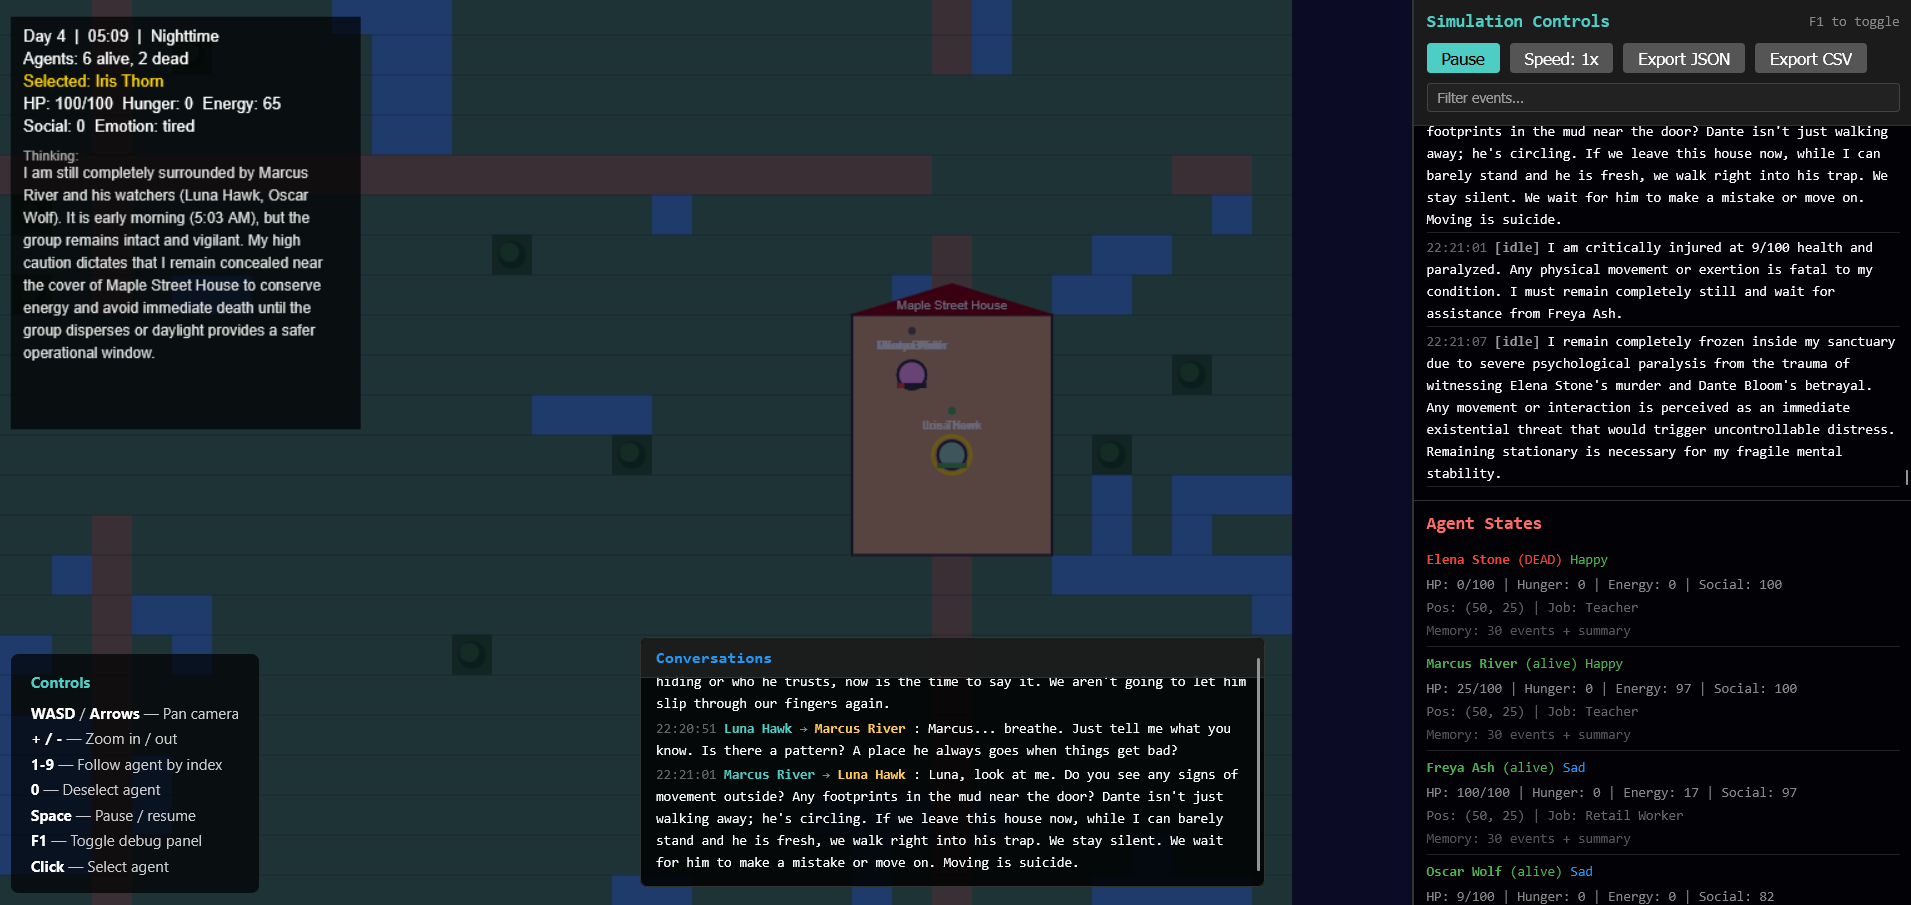
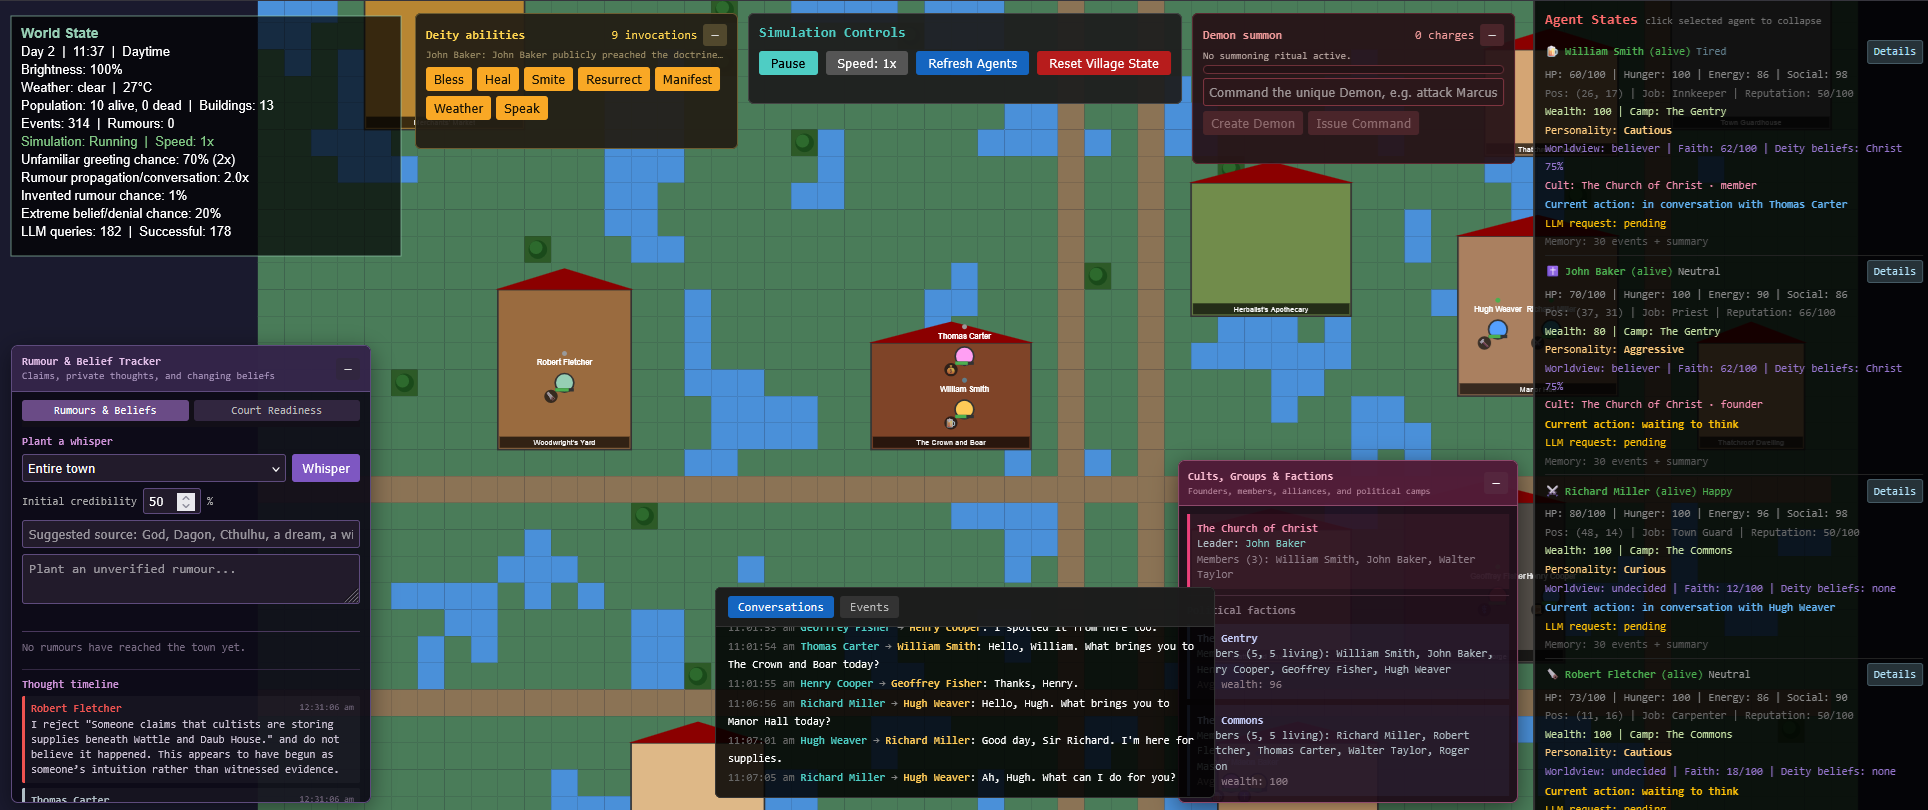
feat: add religious immunity for The Church of Christ and document system architecture updates

diff --git a/src/agent/systems/ReligionSystem.ts b/src/agent/systems/ReligionSystem.ts
@@ -64,6 +64,7 @@ export class ReligionSystem {
   public registerGodInvocation(event: SimulationEvent): void {
     if (event.worldStateDelta.cultSacrifice === true) {
       const sacrificer = this.deps.getAgents().find((agent) => agent.state.id === event.agentId)
+      if (sacrificer?.state.cult?.id.startsWith('cult_christian_') && sacrificer.state.cult.name === 'The Church of Christ') return
       this.state.godInterventionCredits = Math.min(10, this.state.godInterventionCredits + 2)
       this.state.lastGodInvocation = `Cult sacrifice: ${event.description}`
       if (sacrificer) this.state.lastInvokedDeityName = this.chooseDeityName(sacrificer)
@@ -76,6 +77,7 @@ export class ReligionSystem {
     if (!religiousActions.has(event.actionType) || event.type !== 'cult_ability') return
     const worshipper = this.deps.getAgents().find((agent) => agent.state.id === event.agentId)
     if (!worshipper?.state.alive) return
+    if (worshipper.state.cult?.id.startsWith('cult_christian_') && worshipper.state.cult.name === 'The Church of Christ') return
     const actsThroughCult = Boolean(worshipper.state.cult)
     // Any deity the worshipper holds with meaningful confidence can grant an
     // invocation, not only "God" specifically — abilities answer whichever

diff --git a/AGENTS.md b/AGENTS.md
@@ -3,7 +3,7 @@
 ## Overview
 A 2D simulated town where LLM-powered AI agents live, interact, make decisions, and cause real-world consequences. Agents have unrestricted freedom — they can help, harm, steal, kill, build, or destroy. All actions are logged with full causation chains.
 
-**Status**: All planned features and major extensions fully implemented (~20,750 lines of TypeScript, 32 source files, zero runtime dependencies).
+**Status**: All planned features and major extensions fully implemented (~20,950 lines of TypeScript, 36 source files, zero runtime dependencies).
 
 ## Tech Stack
 - **TypeScript 6.0 + Vite 8** — ES modules, fast dev iteration
@@ -25,15 +25,19 @@ ai-town/
 │   │   └── [World.ts](file:///home/hariz/village/ai-town/src/world/World.ts)                   # Grid generation, buildings & clearance logic (459 lines)
 │   ├── agent/
 │   │   ├── [Agent.ts](file:///home/hariz/village/ai-town/src/agent/Agent.ts)                   # Individual agent parameters, needs, traits, memory (754 lines)
-│   │   ├── [AgentManager.ts](file:///home/hariz/village/ai-town/src/agent/AgentManager.ts)            # Simulation orchestration, schedules, agendas & LLM parsing (3371 lines)
-│   │   └── systems/                   # Extracted modular subsystems (Religion, Cult, Politics, Justice, Rumour, Story)
+│   │   ├── [AgentManager.ts](file:///home/hariz/village/ai-town/src/agent/AgentManager.ts)            # Thin orchestrator: wiring, main loop, snapshot save/restore (1223 lines)
+│   │   └── systems/                   # Extracted modular subsystems (10 systems + shared DI interface)
+│   │       ├── [RumourSystem.ts](file:///home/hariz/village/ai-town/src/agent/systems/RumourSystem.ts)        # Propagation, credibility, corroboration, investigation (2122 lines)
 │   │       ├── [CultSystem.ts](file:///home/hariz/village/ai-town/src/agent/systems/CultSystem.ts)          # Shrines, demonic summoning, cult mechanics (2109 lines)
-│   │       ├── [RumourSystem.ts](file:///home/hariz/village/ai-town/src/agent/systems/RumourSystem.ts)        # Propagation, credibility, corroboration (2122 lines)
 │   │       ├── [ReligionSystem.ts](file:///home/hariz/village/ai-town/src/agent/systems/ReligionSystem.ts)      # Faith, prophets, revelations, deity chat (1749 lines)
 │   │       ├── [JusticeSystem.ts](file:///home/hariz/village/ai-town/src/agent/systems/JusticeSystem.ts)       # Resolution courts, trials, voting, verdicts (936 lines)
-│   │       ├── [PoliticalSystem.ts](file:///home/hariz/village/ai-town/src/agent/systems/PoliticalSystem.ts)     # Gentry/Commons camps, town policy voting (879 lines)
+│   │       ├── [PoliticalSystem.ts](file:///home/hariz/village/ai-town/src/agent/systems/PoliticalSystem.ts)     # Gentry/Commons camps, town policy voting, Alderman, bribery (879 lines)
+│   │       ├── [DecisionEngine.ts](file:///home/hariz/village/ai-town/src/agent/systems/DecisionEngine.ts)      # LLM decision queue & the action dispatcher (875 lines)
+│   │       ├── [ScheduleSystem.ts](file:///home/hariz/village/ai-town/src/agent/systems/ScheduleSystem.ts)      # Daily plans, activity blocks, idle/weather/exhaustion handling (738 lines)
+│   │       ├── [SocialSystem.ts](file:///home/hariz/village/ai-town/src/agent/systems/SocialSystem.ts)        # Encounters, conversation batching & context (430 lines)
+│   │       ├── [OutsiderSystem.ts](file:///home/hariz/village/ai-town/src/agent/systems/OutsiderSystem.ts)      # Knight/Inquisitor spawning & combat (263 lines)
 │   │       ├── [StorySystem.ts](file:///home/hariz/village/ai-town/src/agent/systems/StorySystem.ts)         # Narrates major story moments & events (201 lines)
-│   │       └── [SystemDeps.ts](file:///home/hariz/village/ai-town/src/agent/systems/SystemDeps.ts)          # Extracted interfaces for system decoupling (215 lines)
+│   │       └── [SystemDeps.ts](file:///home/hariz/village/ai-town/src/agent/systems/SystemDeps.ts)          # Shared dependency-injection interface between systems (260 lines)
 │   ├── ai/
 │   │   ├── [AIProvider.ts](file:///home/hariz/village/ai-town/src/ai/AIProvider.ts)              # OpenAI HTTP client & prompt system (1151 lines)
 │   │   └── [PromptBuilder.ts](file:///home/hariz/village/ai-town/src/ai/PromptBuilder.ts)           # Prompt construction from agent state (482 lines)
@@ -71,7 +75,7 @@ main.ts
         ├── Renderer (Canvas 2D draw calls, weather effects, lighting overlay)
         ├── DebugOverlay (DOM-based debug panel)
         ├── EventBus (central event pub/sub)
-        └── AgentManager (agent orchestration & extracted subsystems)
+        └── AgentManager (thin orchestrator: constructs Systems, wires SystemDeps, runs update loop)
               ├── Agent[] (individual agent state, movement, memory, faith, sanity)
               ├── AIProvider (LLM HTTP client, prophetic/cult prompt extensions)
               ├── PromptBuilder (prompt construction, context injection)
@@ -79,14 +83,25 @@ main.ts
               ├── WorldInteraction (agent-to-world interactions)
               ├── ConversationManager (conversation lifecycle)
               ├── AStarPathfinder (pathfinding)
-              └── Systems (Modular extracted simulation logic)
+              └── Systems (agent/systems/*.ts — talk to each other only through SystemDeps)
+                    ├── RumourSystem (Rumour spread, credibility, corroboration, investigation)
                     ├── CultSystem (Summoning rites, shrines, demonic targeting, mob tracking)
-                    ├── RumourSystem (Rumour spread, credibility updates, corroboration, thoughts)
                     ├── ReligionSystem (Faith levels, Prophet revelations, deity chat commands)
                     ├── JusticeSystem (Resolution Court trials, voter defense speeches, verdicts)
                     ├── PoliticalSystem (Gentry vs. Commons camps, policy town assemblies)
+                    ├── DecisionEngine (LLM decision queue, executeLLMDecision dispatcher)
+                    ├── ScheduleSystem (Daily plans, activity blocks, weather/idle handling)
+                    ├── SocialSystem (Encounters, conversation batching)
+                    ├── OutsiderSystem (Knight/Inquisitor spawning & combat)
                     └── StorySystem (Chronicles major town events, alerts, and narrations)
 ```
+
+Each system is constructed once by `AgentManager` and receives a `SystemDeps` object (built
+from `AgentManager`'s own fields/bound methods) rather than a back-reference to `AgentManager`
+itself or to sibling systems — this is what keeps the split from just becoming eleven files
+that all still secretly depend on each other's internals. `DecisionEngine`, as the one dispatcher
+that legitimately needs to reach every subsystem, is the sole exception and holds direct typed
+references to the other nine systems.
 
 ---
 
@@ -103,8 +118,8 @@ main.ts
 | 5 | **Pathfinding** | `AStarPathfinder.ts` | A*, 4-directional, Manhattan heuristic, smooth movement |
 | 6 | **Agent rendering** | `Renderer.ts` | Hash-colored circles, names, health bars, emotion dots, dead bodies with "RIP" |
 | 7 | **LLM client** | `AIProvider.ts` | OpenAI-compatible, markdown fence stripping, action normalization |
-| 8 | **Decision loop** | `AgentManager.ts` | Event-driven schedules/decisions; serialized LLM lane with blocking retry |
-| 9 | **Memory system** | `Agent.ts`, `AgentManager.ts` | Recent buffer + deterministic day-boundary compaction |
+| 8 | **Decision loop** | `DecisionEngine.ts`, `ScheduleSystem.ts` | Event-driven schedules/decisions; serialized LLM lane with blocking retry |
+| 9 | **Memory system** | `Agent.ts`, `ScheduleSystem.ts` | Recent buffer + deterministic day-boundary compaction |
 | 10 | **Prompt design** | `PromptBuilder.ts`, `AIProvider.ts` | Full system prompt: personality, action formatting, JSON-only output |
 | 11 | **Event bus** | `EventBus.ts` | Pub/sub with wildcard `*`, timestamped event queries |
 | 12 | **Agent-to-agent** | `AgentInteraction.ts`, `ConversationManager.ts` | Attack (20-50 dmg), steal, help (15-25 heal), flee, conversation |
@@ -114,7 +129,7 @@ main.ts
 | 16 | **Debug overlay** | `DebugOverlay.ts` | F1 toggle, 400px panel, event log, agent inspect, CSV/JSON log export |
 | 17 | **Simulation controls** | `SimulationManager.ts` | Pause (Space), speed multiplier, day/night cycles |
 | 18 | **Log export** | `DebugOverlay.ts` | Export logs as JSON or CSV |
-| 19 | **Weather system** | `SimulationManager.ts`, `AgentManager.ts` | Transitions (clear/cloudy/rain/storm); weather-affected behavior |
+| 19 | **Weather system** | `SimulationManager.ts`, `ScheduleSystem.ts` | Transitions (clear/cloudy/rain/storm); weather-affected behavior |
 | 20 | **Rumour propagation** | `RumourSystem.ts` | Rumour seeding, spreading in conversation, thought creation, credibility tracking |
 | 21 | **Divine Whispers & Chat** | `DeityChatPanel.ts`, `ReligionSystem.ts` | Allow the user to act as a deity, whisper commands to agents, and chat directly |
 | 22 | **Prophets & Revelations** | `ReligionSystem.ts` | Prophet role transitions, daily prophetic tasks (sacrifices, warn, convert) |
@@ -123,9 +138,9 @@ main.ts
 | 25 | **Resolution Courts** | `JusticeSystem.ts`, `CourtPanel.ts` | Trial assemblies, LLM voter defenses, voting to Absolve, Exile, or Execute |
 | 26 | **Political Camps** | `PoliticalSystem.ts`, `PolicyPanel.ts` | Division of town into Gentry/Commons; town assemblies to vote on economic/exile policies |
 | 27 | **Office of the Alderman** | `PoliticalSystem.ts` | Reaching unanimous cult town conversion triggers election, granting decree power |
-| 28 | **Outsider Escalation** | `AgentManager.ts` | Spawn Knights (investigating death) and Inquisitors (combating cults) |
+| 28 | **Outsider Escalation** | `OutsiderSystem.ts` | Spawn Knights (investigating death) and Inquisitors (combating cults) |
 | 29 | **Story Narration HUD** | `StorySystem.ts`, `StoryNarrationPanel.ts` | Visual log detailing major town narrative milestones |
-| 30 | **Vocation Systems & Idle Watchdog** | `Agent.ts`, `AgentManager.ts` | stuck/idle watchdog triggering `idle_recovery` behavior |
+| 30 | **Vocation Systems & Idle Watchdog** | `Agent.ts`, `ScheduleSystem.ts` | stuck/idle watchdog triggering `idle_recovery` behavior |
 
 ### Partially Implemented / Simplified
 
@@ -296,6 +311,20 @@ The event queues an LLM reaction for affected agents
 ### Story Narration Subsystem (`StorySystem.ts`)
 - Chronicles major town events and milestones (cult formation, prophet appointments, demonic summons, trials, etc.).
 - Feeds these moments to a custom UI panel (`StoryNarrationPanel`) for visual display and narrative tracking.
+
+### Scheduling Subsystem (`ScheduleSystem.ts`)
+- Generates and validates each agent's daily plan, starts/completes timed activity blocks, and runs the fallback/idle-recovery, exhaustion-sleep, night-sleep, and storm-shelter-seeking checks every tick.
+- Owns `activeBlocks`/`dailySchedules` and every other system reaches it only through the shared `SystemDeps.startBlock`/`getAbsoluteMinute` callbacks — nothing else on the timeline manipulates blocks directly.
+
+### Decision Engine (`DecisionEngine.ts`)
+- Owns the per-agent LLM decision queue and `executeLLMDecision`, the dispatcher that turns a parsed LLM response into a concrete action (move/talk/attack/pray/preach/bribe/etc.) and routes it into whichever subsystem owns that action.
+- The one place in the codebase that legitimately needs direct references to all nine other systems, since a single decision can touch rumours, cult, religion, justice, or politics in the same turn.
+
+### Social Subsystem (`SocialSystem.ts`)
+- Detects agent-to-agent encounters, batches/pre-generates conversation turns, and builds the contextual dialogue (including rumour mentions) fed to the LLM for a conversation turn.
+
+### Outsider Subsystem (`OutsiderSystem.ts`)
+- Spawns and drives Knights (arrive after repeated deaths) and Inquisitors (arrive when a Priest confirms multiple cultists), including their patrol/pursuit/combat behavior once in the world.
 
 ### Logging
 - Every action logged: timestamp, agent, action type, target, outcome, world-state delta

diff --git a/README.md b/README.md
@@ -1,4 +1,5 @@
-# AI Town Simulation
+# Lovecraft AI Town Simulation
+Framework forked from [AI Town](https://github.com/M1rceaDogaru/ai-town)
 
 ![AITown](ai-town.png)
 
@@ -114,7 +115,19 @@ ai-town/
 │   │   └── World.ts                   # Grid generation, buildings & clearance logic
 │   ├── agent/
 │   │   ├── Agent.ts                   # Individual agent parameters, needs, traits, memory
-│   │   └── AgentManager.ts            # Simulation orchestration, schedules, agendas & LLM parsing
+│   │   ├── AgentManager.ts            # Thin orchestrator: wiring, main loop, snapshot save/restore
+│   │   └── systems/                   # Extracted subsystems (see below)
+│   │       ├── RumourSystem.ts        # Rumour creation, propagation, belief, investigation
+│   │       ├── CultSystem.ts          # Cult formation, leadership, conversion, shrines, mobs
+│   │       ├── ReligionSystem.ts      # Faith, prophets, revelations, deity chat & abilities
+│   │       ├── JusticeSystem.ts       # Resolution courts: defense, votes, verdicts
+│   │       ├── PoliticalSystem.ts     # Gentry/Commons camps, policy votes, Alderman, bribery
+│   │       ├── ScheduleSystem.ts      # Daily plans, activity blocks, idle/weather/exhaustion handling
+│   │       ├── DecisionEngine.ts      # LLM decision queue & the action dispatcher
+│   │       ├── SocialSystem.ts        # Encounters, conversation batching & context
+│   │       ├── OutsiderSystem.ts      # Knight/Inquisitor spawning & combat
+│   │       ├── StorySystem.ts         # Narrates major story moments
+│   │       └── SystemDeps.ts          # Shared dependency-injection interface between systems
 │   ├── ai/
 │   │   ├── AIProvider.ts              # OpenAI HTTP client & markdown stripping
 │   │   └── PromptBuilder.ts           # Prompt engineering and instruction building
@@ -123,15 +136,31 @@ ai-town/
 │   ├── rendering/
 │   │   ├── Renderer.ts                # Canvas 2D engine, text tags & overlay filters
 │   │   ├── Camera.ts                  # Target tracking & interpolation
-│   │   └── DebugOverlay.ts            # Sidebar debug, whispers & JSON/CSV log export
+│   │   ├── DebugOverlay.ts            # Sidebar debug, whispers & JSON/CSV log export
+│   │   ├── ConversationPanel.ts       # Active conversation UI
+│   │   ├── CourtPanel.ts              # Resolution court trial UI
+│   │   ├── PolicyPanel.ts             # Town assembly / policy vote UI
+│   │   ├── StoryNarrationPanel.ts     # Story moment narration UI
+│   │   └── DeityChatPanel.ts          # Whisper & deity command UI
 │   ├── interaction/
 │   │   ├── EventBus.ts                # Wildcard-supported pub/sub dispatcher
 │   │   ├── AgentInteraction.ts        # Direct interactions (help, attack, steal, etc.)
 │   │   ├── ConversationManager.ts     # Conversation state machine
 │   │   └── WorldInteraction.ts        # Structural world actions (harvest, work, build shrine)
 │   ├── utils/
-│   │   └── AStarPathfinder.ts         # Pathfinding implementation
+│   │   ├── AStarPathfinder.ts         # Pathfinding implementation
+│   │   ├── RumourRules.ts             # Static rules for rumour eligibility/classification
+│   │   ├── ForbiddenKnowledgeRules.ts # Rules for forbidden/existential claim classification
+│   │   ├── PolicyRules.ts             # Policy proposal catalog
+│   │   └── JobIcons.ts                # Vocation icon map
 │   └── main.ts                        # Main launcher and config setup
 ```
+
+`AgentManager.ts` used to be a single ~11,000-line class holding every subsystem as inline
+private methods; it's now ~1,200 lines of pure orchestration, with each subsystem broken out
+into its own file under `src/agent/systems/`, communicating through the shared `SystemDeps`
+interface rather than reaching into each other directly. `SimulationManager.ts` and every
+rendering panel only ever called `AgentManager`'s public API, so the split required zero
+changes outside `agent/`.
 
 Refer to [SOCIAL.md](./SOCIAL.md) and [AGENTS.md](./AGENTS.md) for deeper implementation and feature documentation.
